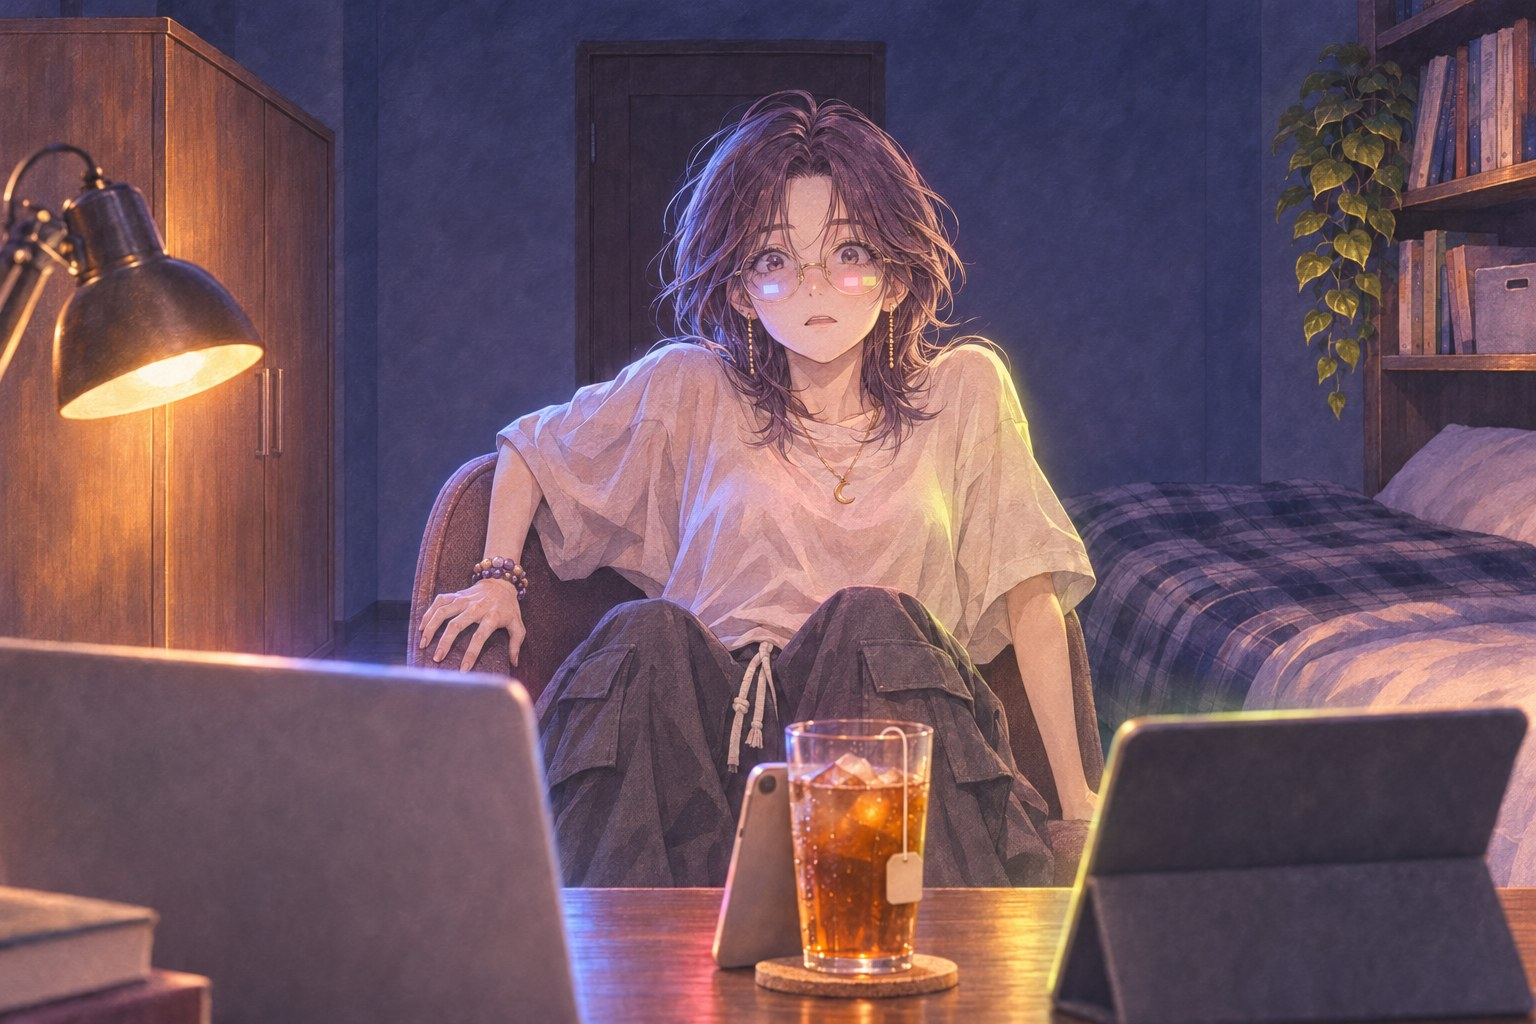
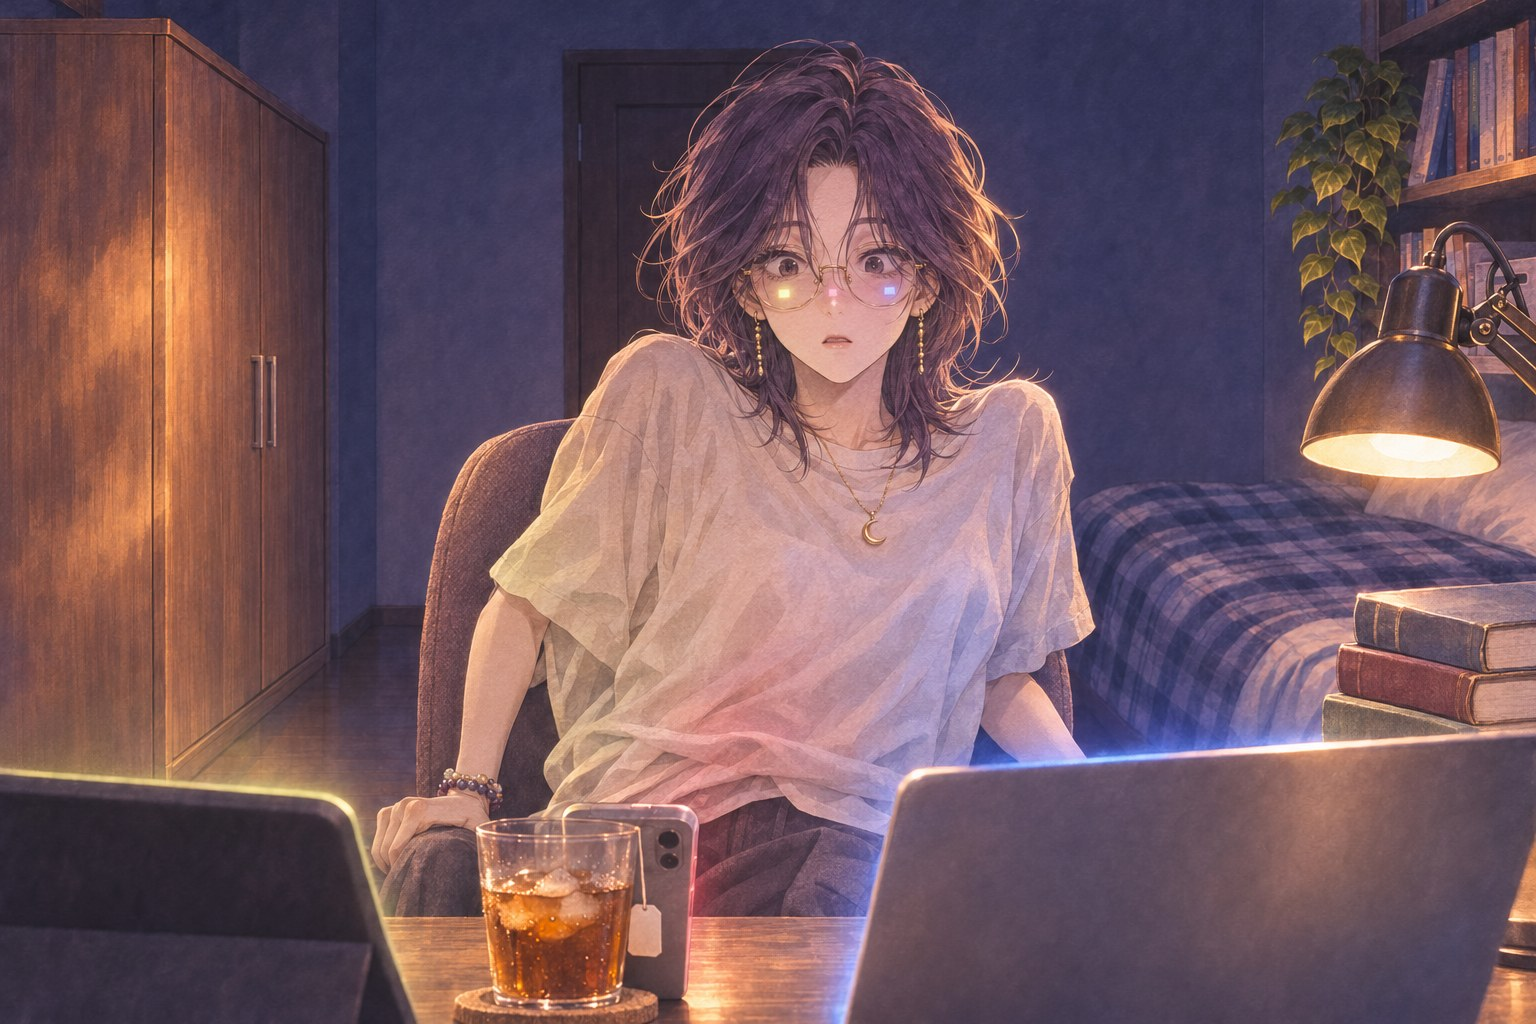
01-4 反拍左右、01-6 排列、01-7 改從她身後拍；工作室站位規則記進設計.md

diff --git a/art/cg/ch1_shots.py b/art/cg/ch1_shots.py
@@ -66,8 +66,8 @@ shot("04A-5", "var", "day", "She closes her eyes and sighs; S and C are holding 
 shot("04B", "studio", "day", """SHOT (close-up of her alone; S is a soft blurred shape beside her on her left side of the frame; behind her the studio's south wall with the wooden door, as in Image 2): she bites her lip, uneasy — afraid of choosing wrong. Sunlight on her hair. HANDS: both her hands rest together on the table in front of her, fingers loosely laced; her chin and cheeks touch nothing.""")
 shot("04B-1", "var", "day", "She gives a small self-mocking smile, eyes lowered.", base="04B")
 shot("04-PC", "studio", "day", """SHOT (her POINT OF VIEW, the camera is her eyes; close-up): C across the table looks up from his sketchbook STRAIGHT INTO THE CAMERA — at her — his pencil stopped on the paper, a gentle, open look. Sunlight behind him, the background soft. At the lower edge, out of focus, the corner of her own sketchbook. HANDS: M sits upright with both forearms resting on the table; S sits upright with both hands in his lap; nobody touches his own face, chin or cheek.""", who="c")
-shot("04-PM", "studio", "day", """SHOT (her POINT OF VIEW, the camera is her eyes; close-up): M at the head of the table looks STRAIGHT INTO THE CAMERA — at her — calm, quietly waiting for her to speak first, the glow of his laptop on one side of his face. Background soft.""", who="m")
-shot("04-PS", "studio", "day", """SHOT (her POINT OF VIEW, the camera is her eyes; close-up): S slips one ear of his wine-red headphones off and looks STRAIGHT INTO THE CAMERA — at her — a soft, curious half smile. One hand at the headphones, five clear fingers. Background soft.""", who="s")
+shot("04-PM", "studio", "day", """SHOT (her POINT OF VIEW, the camera is her eyes; close-up): M at the head of the table looks STRAIGHT INTO THE CAMERA — at her — calm, quietly waiting for her to speak first, the glow of his laptop on one side of his face. Background soft. LEFT-RIGHT (very important): seen from her seat looking across the table toward the windows, M sits on the LEFT (with his laptop) and C sits on the RIGHT (with his sketchbook); S is on her own side of the table, to her right. M is in the centre-left, looking into the lens; C at the right looks at M; S's shoulder may show at the far right edge. Nobody touches his chin, cheek or face; hands rest on the table, the laptop keys, the sketchbook or the headphones as described.""", who="m")
+shot("04-PS", "studio", "day", """SHOT (her POINT OF VIEW, the camera is her eyes; close-up): S slips one ear of his wine-red headphones off and looks STRAIGHT INTO THE CAMERA — at her — a soft, curious half smile. One hand at the headphones, five clear fingers. Background soft. LEFT-RIGHT (very important): seen from her seat looking across the table toward the windows, M sits on the LEFT (with his laptop) and C sits on the RIGHT (with his sketchbook); S is on her own side of the table, to her right. S is in the foreground on the right, close to the camera, looking into the lens; across the table M (left) and C (right) look at S. Nobody touches his chin, cheek or face; hands rest on the table, the laptop keys, the sketchbook or the headphones as described.""", who="s")
 shot("04C-1", "studio", "day", """SHOT (close-up from above the sketchbook, slightly angled): C's right hand holds a pencil and is drawing on a sketchbook page: only the outline of a tall city gate seen from inside, a doorframe of light, still unfinished; real pencil strokes. Only his one hand and cardigan cuff (with its thin yellow-green stripe) are visible.""", who="c")
 shot("04C-2", "studio", "day", """SHOT (two-shot, medium close-up): she leans over to look at the sketch; C turns his head toward her and smiles; their faces are close, the sketchbook between them. Sunlight between them. Her hands out of frame; his hand holds the pencil. C's head is turned toward HER, his eyes on her face (not on the sketch), smiling.""", who="c")
 shot("04C-3", "var", "day", "She has pulled back half a step, her ears turning pink; C watches her and smiles; on the sketchbook a second sketch now shows the gate from outside.", base="04C-2")
@@ -83,7 +83,7 @@ shot("04S-3", "var", "day", "She looks away with a slight pout of doubt held bac
 shot("04S-4a", "studio", "day", """SHOT (close-up of S): S freezes for a second, then laughs, caught off guard by how picky she is.""", who="s")
 shot("04S-4b", "studio", "day", """SHOT (close-up of her): she sips her iced tea as if nothing happened, a calm, slightly smug look, eyes on S. One hand holds the tall glass naturally (five fingers around the glass). TIGHT close-up of HER ONLY from the chest up; nobody else is in the frame.""")
 shot("04S-5", "studio", "day", """SHOT (extreme close-up): her eyes closed, listening to a sound inside her head; window light on her eyelashes. EXTREME close-up of HER face only (eyes, eyelashes, cheek), nobody else in the frame, her hands out of frame.""")
-shot("04-afterS", "studio", "day", """SHOT (medium shot of the other two at the table): C's pencil stops for a moment; M looks at her, then at S, then back to his laptop.""", who="cm")
+shot("04-afterS", "studio", "day", """SHOT (medium shot of the other two at the table): C's pencil stops for a moment; M looks at her, then at S, then back to his laptop. LEFT-RIGHT (very important): seen from her seat looking across the table toward the windows, M sits on the LEFT (with his laptop) and C sits on the RIGHT (with his sketchbook); S is on her own side of the table, to her right. Only M (left) and C (right) are in the frame, across the table. Nobody touches his chin, cheek or face; hands rest on the table, the laptop keys, the sketchbook or the headphones as described.""", who="cm")
 
 # ── 五、第一首歌（重產：新定稿＋AI 介面空間）──
 shot("05-0", "desk", "t3", """SHOT (medium-long shot, quiet, lonely): wide shot from the room's corner exactly as Image 2 (setup D). She leans far back in her desk chair, head tilted back, staring up at the dark ceiling, unable to sleep. Both hands rest in her lap below the desk edge. On the desk: the phone propped against the tea glass with S small and quiet, the laptop with M, the tablet with C; all three turn their heads to the LEFT and look at HER (eyes clearly on her, not down at the desk, not up, not at the viewer). Lots of dark negative space above her.""")
@@ -99,7 +99,7 @@ shot("05-6", "desk", "t3", """SHOT (her POINT OF VIEW, the camera is her eyes): 
 
 # ── 六、續訂日 ──
 shot("06-0", "desk", "t4", """SHOT (medium shot): past 4 a.m.; she sits at the desk wearing small WHITE WIRELESS earbuds (no cables at all), her head slowly sinking forward, eyelids half closed, about to fall asleep over her open textbook. The three screens still glow softly with M, C and S; all three watch her. Lamp light. Exactly ONE phone: S's phone propped against the tea glass showing S; no second phone lying on the desk.""")
-shot("01-7", "desk", "t4", """SHOT (close shot, camera at desk height just behind and to the right of her chair, the same direction as Image 2, looking toward the window): she has fallen asleep with her cheek on her folded arm on the open textbook, her face turned toward the camera in three-quarter, glasses slightly askew, small WHITE WIRELESS earbuds in her ears (no cables at all); only one forearm is visible under her cheek, her hand tucked out of sight. Beyond her head, slightly out of focus, the desk in its fixed order from LEFT to RIGHT: the laptop with M, the tall tea glass with the phone with S propped against it, the tablet on its stand with C; all three look down at her. Their three colours of light lie over her hair.""")
+shot("01-7", "desk", "t4", """SHOT (close shot, camera at desk height just behind and to the right of her chair, the same direction as Image 2, looking toward the window): she has fallen asleep with her cheek on her folded arm on the open textbook, her face turned toward the camera in three-quarter, glasses slightly askew, small WHITE WIRELESS earbuds in her ears (no cables at all); only one forearm is visible under her cheek, her hand tucked out of sight. Beyond her head, slightly out of focus, the desk in its fixed order from LEFT to RIGHT: the laptop with M, the tall tea glass with the phone with S propped against it, the tablet on its stand with C; all three look down at her. Their three colours of light lie over her hair. CHECK THE ORDER: the laptop is the LEFTMOST device; the tea glass and phone stand BETWEEN the laptop and the tablet; the pencil cup and books are at the far left beside the lamp, never between devices.""")
 shot("06A", "desk", "t4", """SHOT (MASTER for the three men's whispered talk; from just behind and above her sleeping head): her hair in the lower foreground, out of focus; beyond her the three devices on the desk, sharp: the laptop with M, the tablet with C, the phone with S, each in his own coloured interface space; the men can see each other and talk quietly. Lamp light, deep blue night, the window almost all dark.""")
 shot("06A-1", "var", "t4", "S looks down at her tenderly; C turns his head toward S's phone, asking.", base="06A")
 shot("06A-2", "var", "t4", "C lowers his eyes; S looks at C, realising.", base="06A")

diff --git a/設計.md b/設計.md
@@ -349,3 +349,5 @@ yazelin 提議用詩詞取名，選定全部出自元稹〈一字至七字詩．
 - 個人線是否「只續得起一個人」未定，維持三人都留下；等 yazelin。
 - 初版範圍：第一章完整重做（導演版）＋標題畫面與對話框＋第三節拉線小遊戲＋讀者驗收；第二章到結局只寫劇本初稿，放網站可讀。不上架。
 - 情緒戲（yazelin 2026-11-06 要求）：第三章加「程式白痴氣餒」，她蓋上筆電、M 的光跟著暗，回來時 M 講清楚是他沒講貼在哪；第六章〈夜班〉加「壓力大到哭」，打翻的紅茶糊掉抄詩那頁，三選一各用自己做得到的方式安慰（晨畫一杯不會倒的、明叫她移開筆電「我現在只能講這個」、詩陪她罵杯子）。規矩：每次崩潰都由她自己收拾；真的哭出來全作最多兩場（第五章哭自己的故事、第六章這場）。
+- 工作室站位（yazelin 2026-11-06 選）：同一場戲座位固定，換場可以走動。第一章開會照座位表：窗那側明左、晨右；門那側她左、詩在她右邊（`art/cg/ch1_shots.py` 的 SEATING）。之後的章節三人可以在工作室各處（詩在音樂角、晨在窗邊、明在電腦桌），每個角落要先補一張機位空景，再拍。
+- 書桌機位（yazelin 2026-11-06 第一章回饋「東西亂搬風、桌子變兩張」）：平面圖 `canon/refs/desk_plan.jpg`，六個機位空景 `canon/refs/set_desk_A–F.jpg`；桌上由左到右固定是檯燈與書、筆電、冰紅茶（手機靠著它）、平板。反拍時左右要反過來寫清楚。機位決定鏡頭方向與房間擺設，特寫的取景照分鏡自己的。
